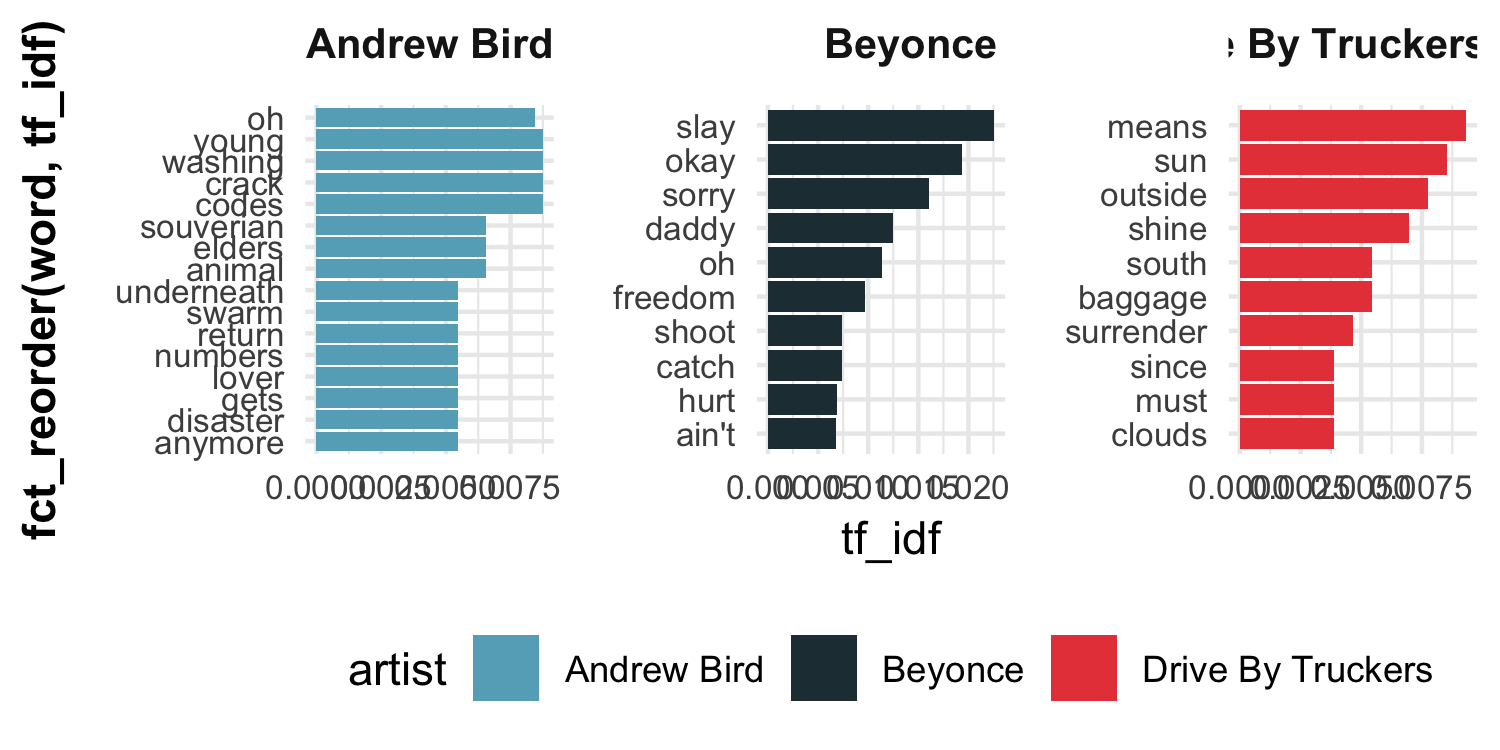
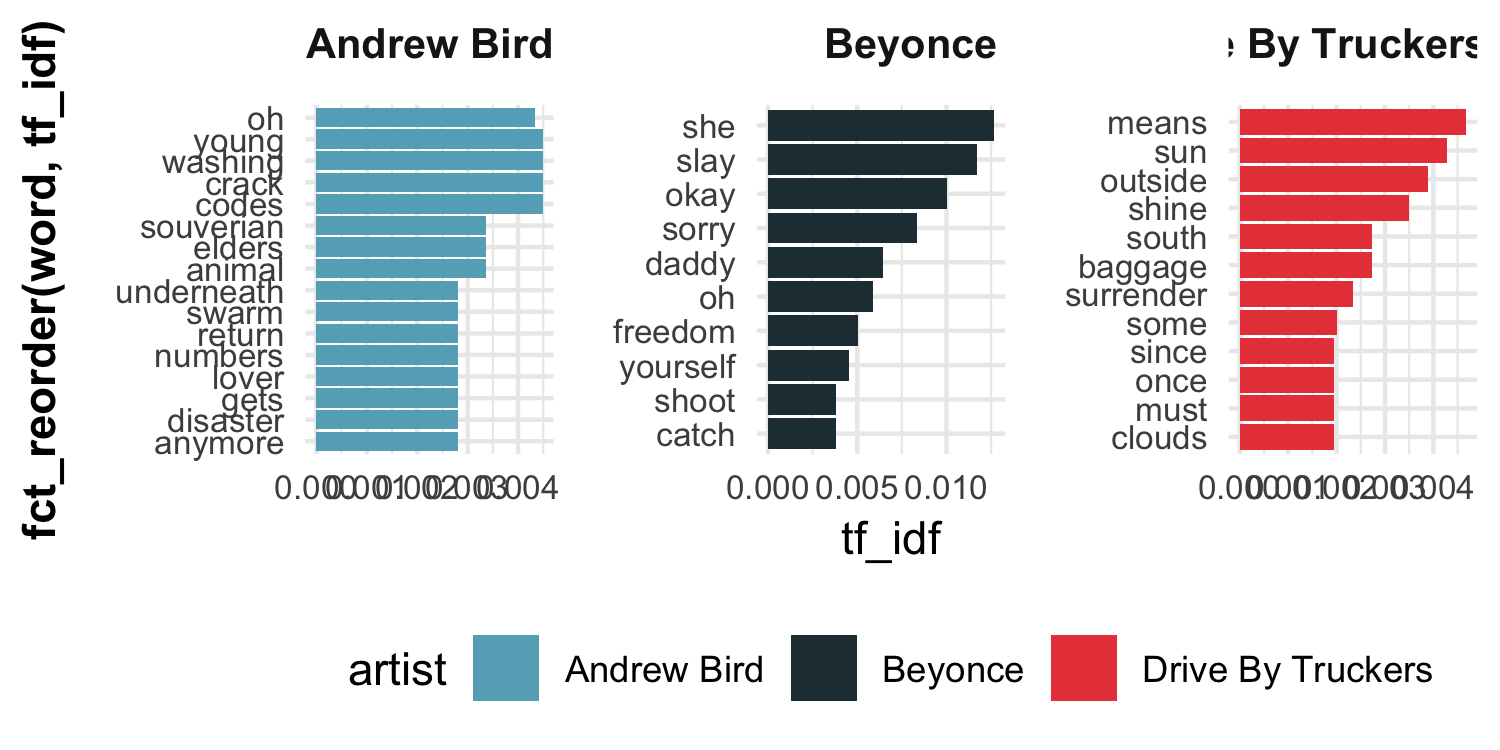
update sldies

diff --git a/presentation.html b/presentation.html
@@ -497,6 +497,8 @@ get_sentiments("bing")
 
 ## Sentiment lexicons
 
+* Lexicons don't take into account qualifiers (i.e. no, not, etc.)
+
 .pull-left[
 
 ```r
@@ -917,7 +919,8 @@ album_sentiment %&gt;%
 
 `$$idf(\text{term}) = \ln{\left(\frac{n_{\text{documents}}}{n_{\text{documents containing term}}}\right)}$$`
 
-tf-idf is about comparing **documents** within a **collection**.
+* `tf-idf` is about comparing **documents** within a **collection**.
+* Identifies tokens that are important, but not too common!
 
 ---
 
@@ -935,7 +938,9 @@ tf-idf is about comparing **documents** within a **collection**.
 ## Finding `tf-idf`
 
 ```r
-album_tf_idf &lt;- album_words %&gt;% 
+album_tf_idf &lt;- albums %&gt;%
+  unnest_tokens(word, lyric) %&gt;% 
+  count(artist, word) %&gt;% 
   bind_tf_idf(word, artist, n) %&gt;% 
   arrange(-tf_idf)
 
@@ -944,14 +949,14 @@ head(album_tf_idf)
 
 ```
 ## # A tibble: 6 x 6
-##   artist  word        n      tf   idf  tf_idf
-##   &lt;chr&gt;   &lt;chr&gt;   &lt;int&gt;   &lt;dbl&gt; &lt;dbl&gt;   &lt;dbl&gt;
-## 1 Beyonce slay       49 0.0205  1.10  0.0226 
-## 2 Beyonce okay       42 0.0176  1.10  0.0193 
-## 3 Beyonce sorry      35 0.0147  1.10  0.0161 
-## 4 Beyonce daddy      27 0.0113  1.10  0.0124 
-## 5 Beyonce oh         67 0.0281  0.405 0.0114 
-## 6 Beyonce freedom    21 0.00880 1.10  0.00967
+##   artist  word      n      tf   idf  tf_idf
+##   &lt;chr&gt;   &lt;chr&gt; &lt;int&gt;   &lt;dbl&gt; &lt;dbl&gt;   &lt;dbl&gt;
+## 1 Beyonce she      53 0.0115  1.10  0.0127 
+## 2 Beyonce slay     49 0.0107  1.10  0.0117 
+## 3 Beyonce okay     42 0.00913 1.10  0.0100 
+## 4 Beyonce sorry    35 0.00761 1.10  0.00836
+## 5 Beyonce daddy    27 0.00587 1.10  0.00645
+## 6 Beyonce oh       67 0.0146  0.405 0.00591
 ```
 
 ---
